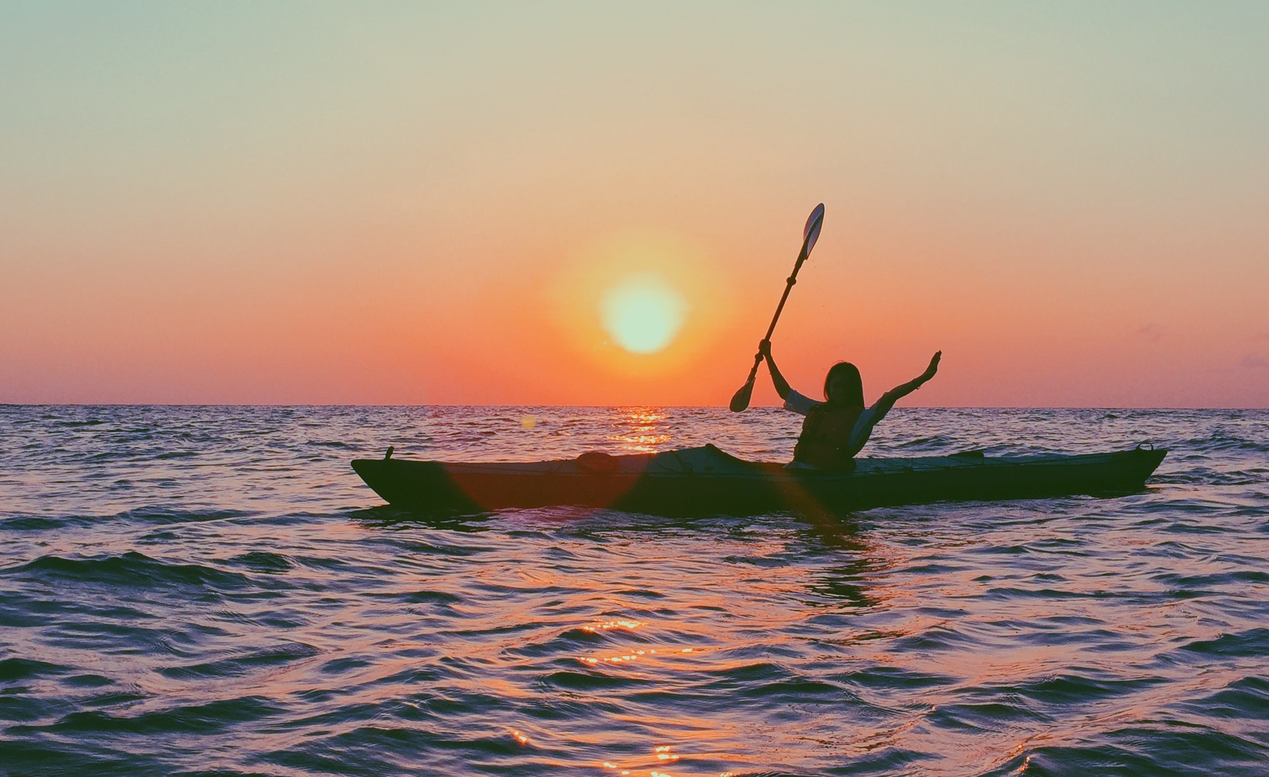
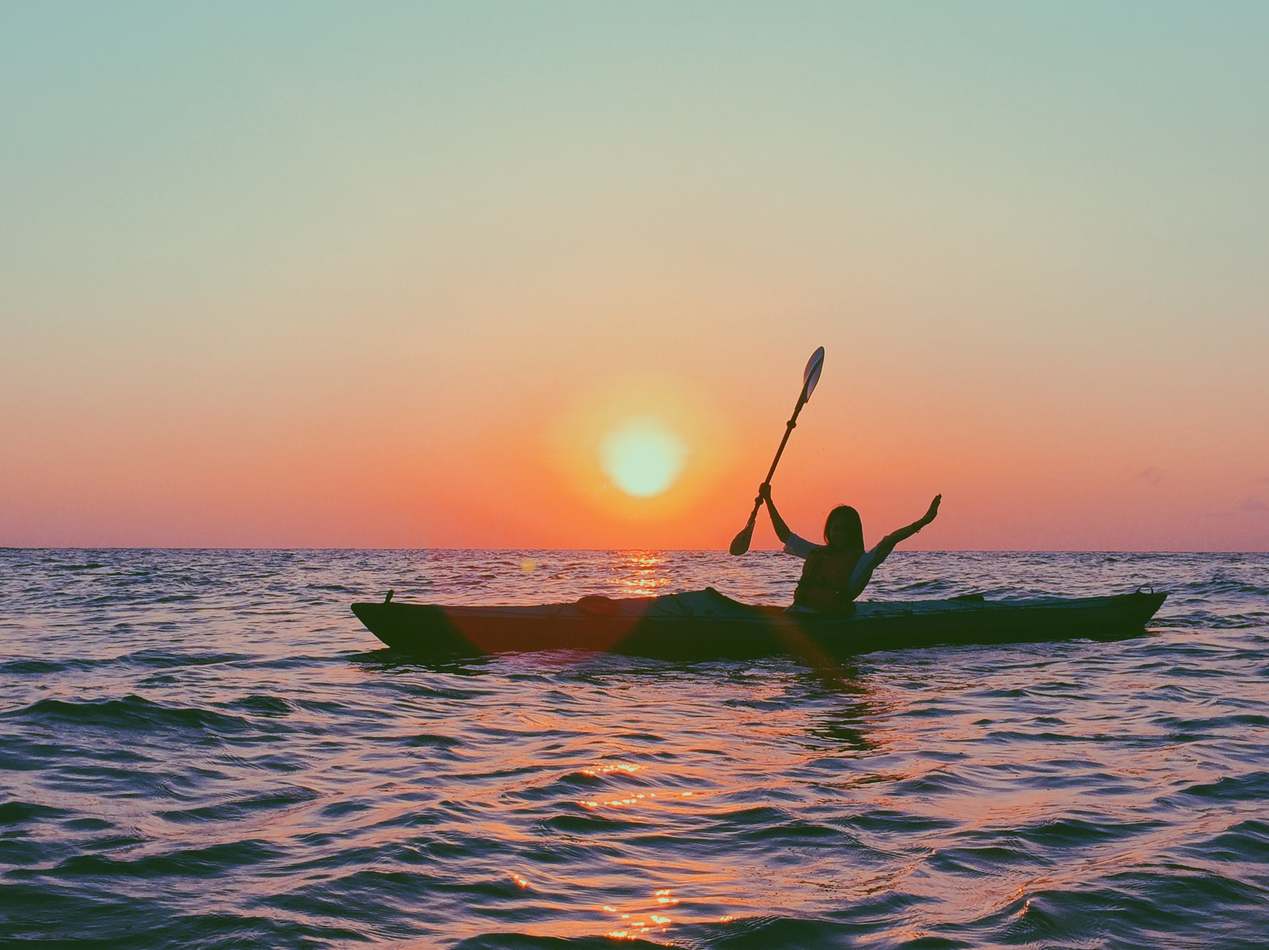
update

diff --git a/css/style.css b/css/style.css
@@ -16,8 +16,6 @@ header {
 	font-color: white;
 	margin-left: 5%;
 	margin-right: 5%;
-	position: fixed;
-	width:90%;
 }
 nav {
 	float: right;
@@ -56,7 +54,7 @@ section {
 	display: block;
 }
 section#home {
-	background-image: url(/images/kellycanoe.jpg);
+	background-image: url(/images/kellycanoecropped.jpg);
 	background-size: 100%;
 	background-repeat: no-repeat;
 	padding: 20em 0 10em 0;

diff --git a/bobsburgers/index.html b/bobsburgers/index.html
@@ -1,0 +1,1 @@
+<!DOCTYPE>
